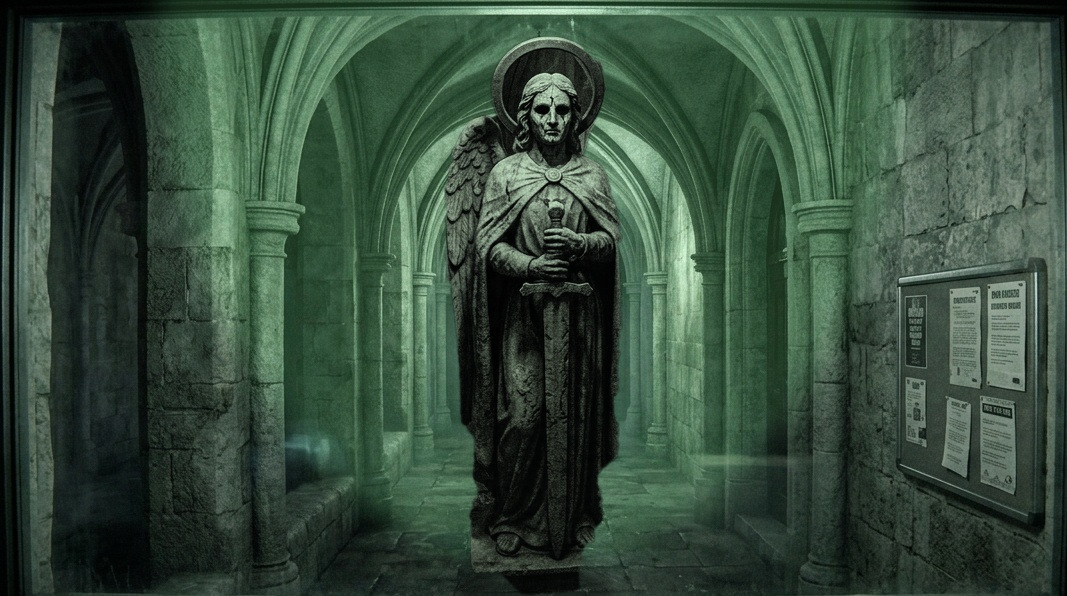
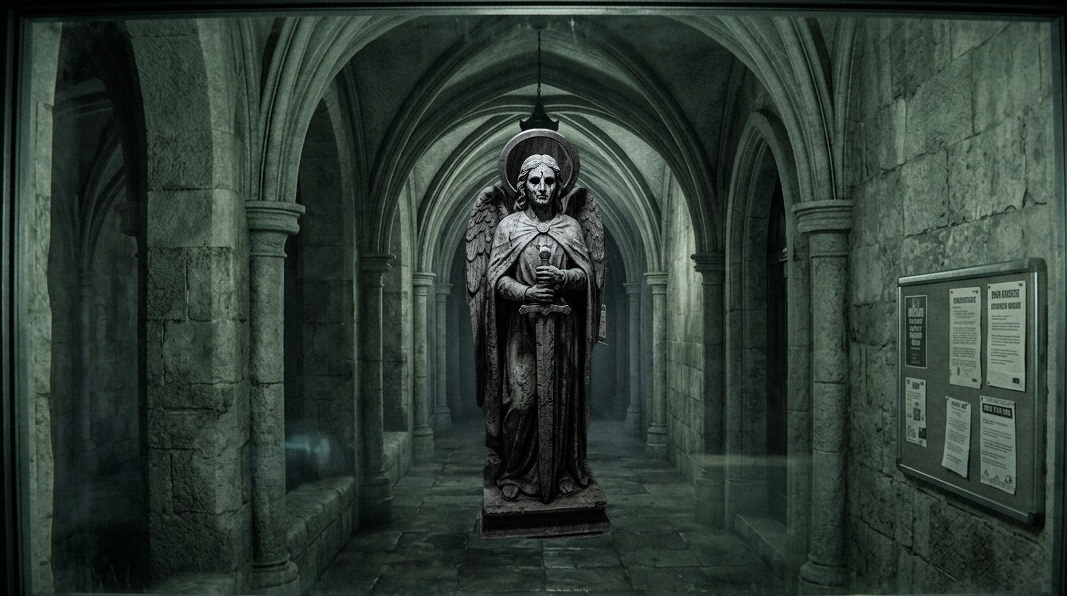
Add multi-stage distance progression and grounded hallway entity scenes

diff --git a/js/game.js b/js/game.js
@@ -216,7 +216,9 @@ class GameEngine {
       'assets/entities/mary_cutout.png',
       'assets/entities/mourner_vent_cutout.png',
       'assets/office/window_hallway_empty.jpg',
+      'assets/office/window_hallway_angel_far.jpg',
       'assets/office/window_hallway_angel.jpg',
+      'assets/office/window_hallway_saint_far.jpg',
       'assets/office/window_hallway_saint.jpg',
       'assets/office/window_hallway_mary.jpg'
     ];
@@ -308,6 +310,10 @@ class GameEngine {
     const texLoader = new THREE.TextureLoader();
     this.windowTextures = {
       empty: texLoader.load('assets/office/window_hallway_empty.jpg'),
+      angel_far: texLoader.load('assets/office/window_hallway_angel_far.jpg'),
+      angel_close: texLoader.load('assets/office/window_hallway_angel.jpg'),
+      saint_far: texLoader.load('assets/office/window_hallway_saint_far.jpg'),
+      saint_close: texLoader.load('assets/office/window_hallway_saint.jpg'),
       angel: texLoader.load('assets/office/window_hallway_angel.jpg'),
       saint: texLoader.load('assets/office/window_hallway_saint.jpg'),
       mary: texLoader.load('assets/office/window_hallway_mary.jpg')
@@ -448,14 +454,22 @@ class GameEngine {
     if (!this.world || !this.world.nodes || !this.world.nodes.windowBackdropMat || !this.windowTextures) return;
 
     const angelLoc = this.aiConfig.weepingAngel.location;
+    const angelStage = this.aiConfig.weepingAngel.stage;
     const saintLoc = this.aiConfig.haloedSaint.location;
+    const saintStage = this.aiConfig.haloedSaint.stage;
     const mournerLoc = this.aiConfig.veiledMourner.location;
 
     let targetTex = this.windowTextures.empty;
-    if (angelLoc === 'CAM_05') {
-      targetTex = this.windowTextures.angel;
-    } else if (saintLoc === 'CAM_05') {
-      targetTex = this.windowTextures.saint;
+    // Multi-stage Cloister Hallway Distance Progression:
+    // Priority: Stage 2 (Directly outside window in bright spotlight) > Stage 1 (Distant corridor silhouette)
+    if (angelLoc === 'CAM_05' && angelStage === 2) {
+      targetTex = this.windowTextures.angel_close;
+    } else if (saintLoc === 'CAM_05' && saintStage === 2) {
+      targetTex = this.windowTextures.saint_close;
+    } else if (angelLoc === 'CAM_05' && angelStage === 1) {
+      targetTex = this.windowTextures.angel_far;
+    } else if (saintLoc === 'CAM_05' && saintStage === 1) {
+      targetTex = this.windowTextures.saint_far;
     } else if (mournerLoc === 'CAM_05') {
       targetTex = this.windowTextures.mary;
     }

diff --git a/index.html b/index.html
@@ -845,9 +845,9 @@
   </script>
 
   <!-- Game Modules -->
-  <script src="js/audio.js?v=20261014_v12"></script>
-  <script src="js/textures.js?v=20261014_v12"></script>
-  <script src="js/models.js?v=20261014_v12"></script>
-  <script src="js/game.js?v=20261014_v12"></script>
+  <script src="js/audio.js?v=20261014_v13"></script>
+  <script src="js/textures.js?v=20261014_v13"></script>
+  <script src="js/models.js?v=20261014_v13"></script>
+  <script src="js/game.js?v=20261014_v13"></script>
 </body>
 </html>
